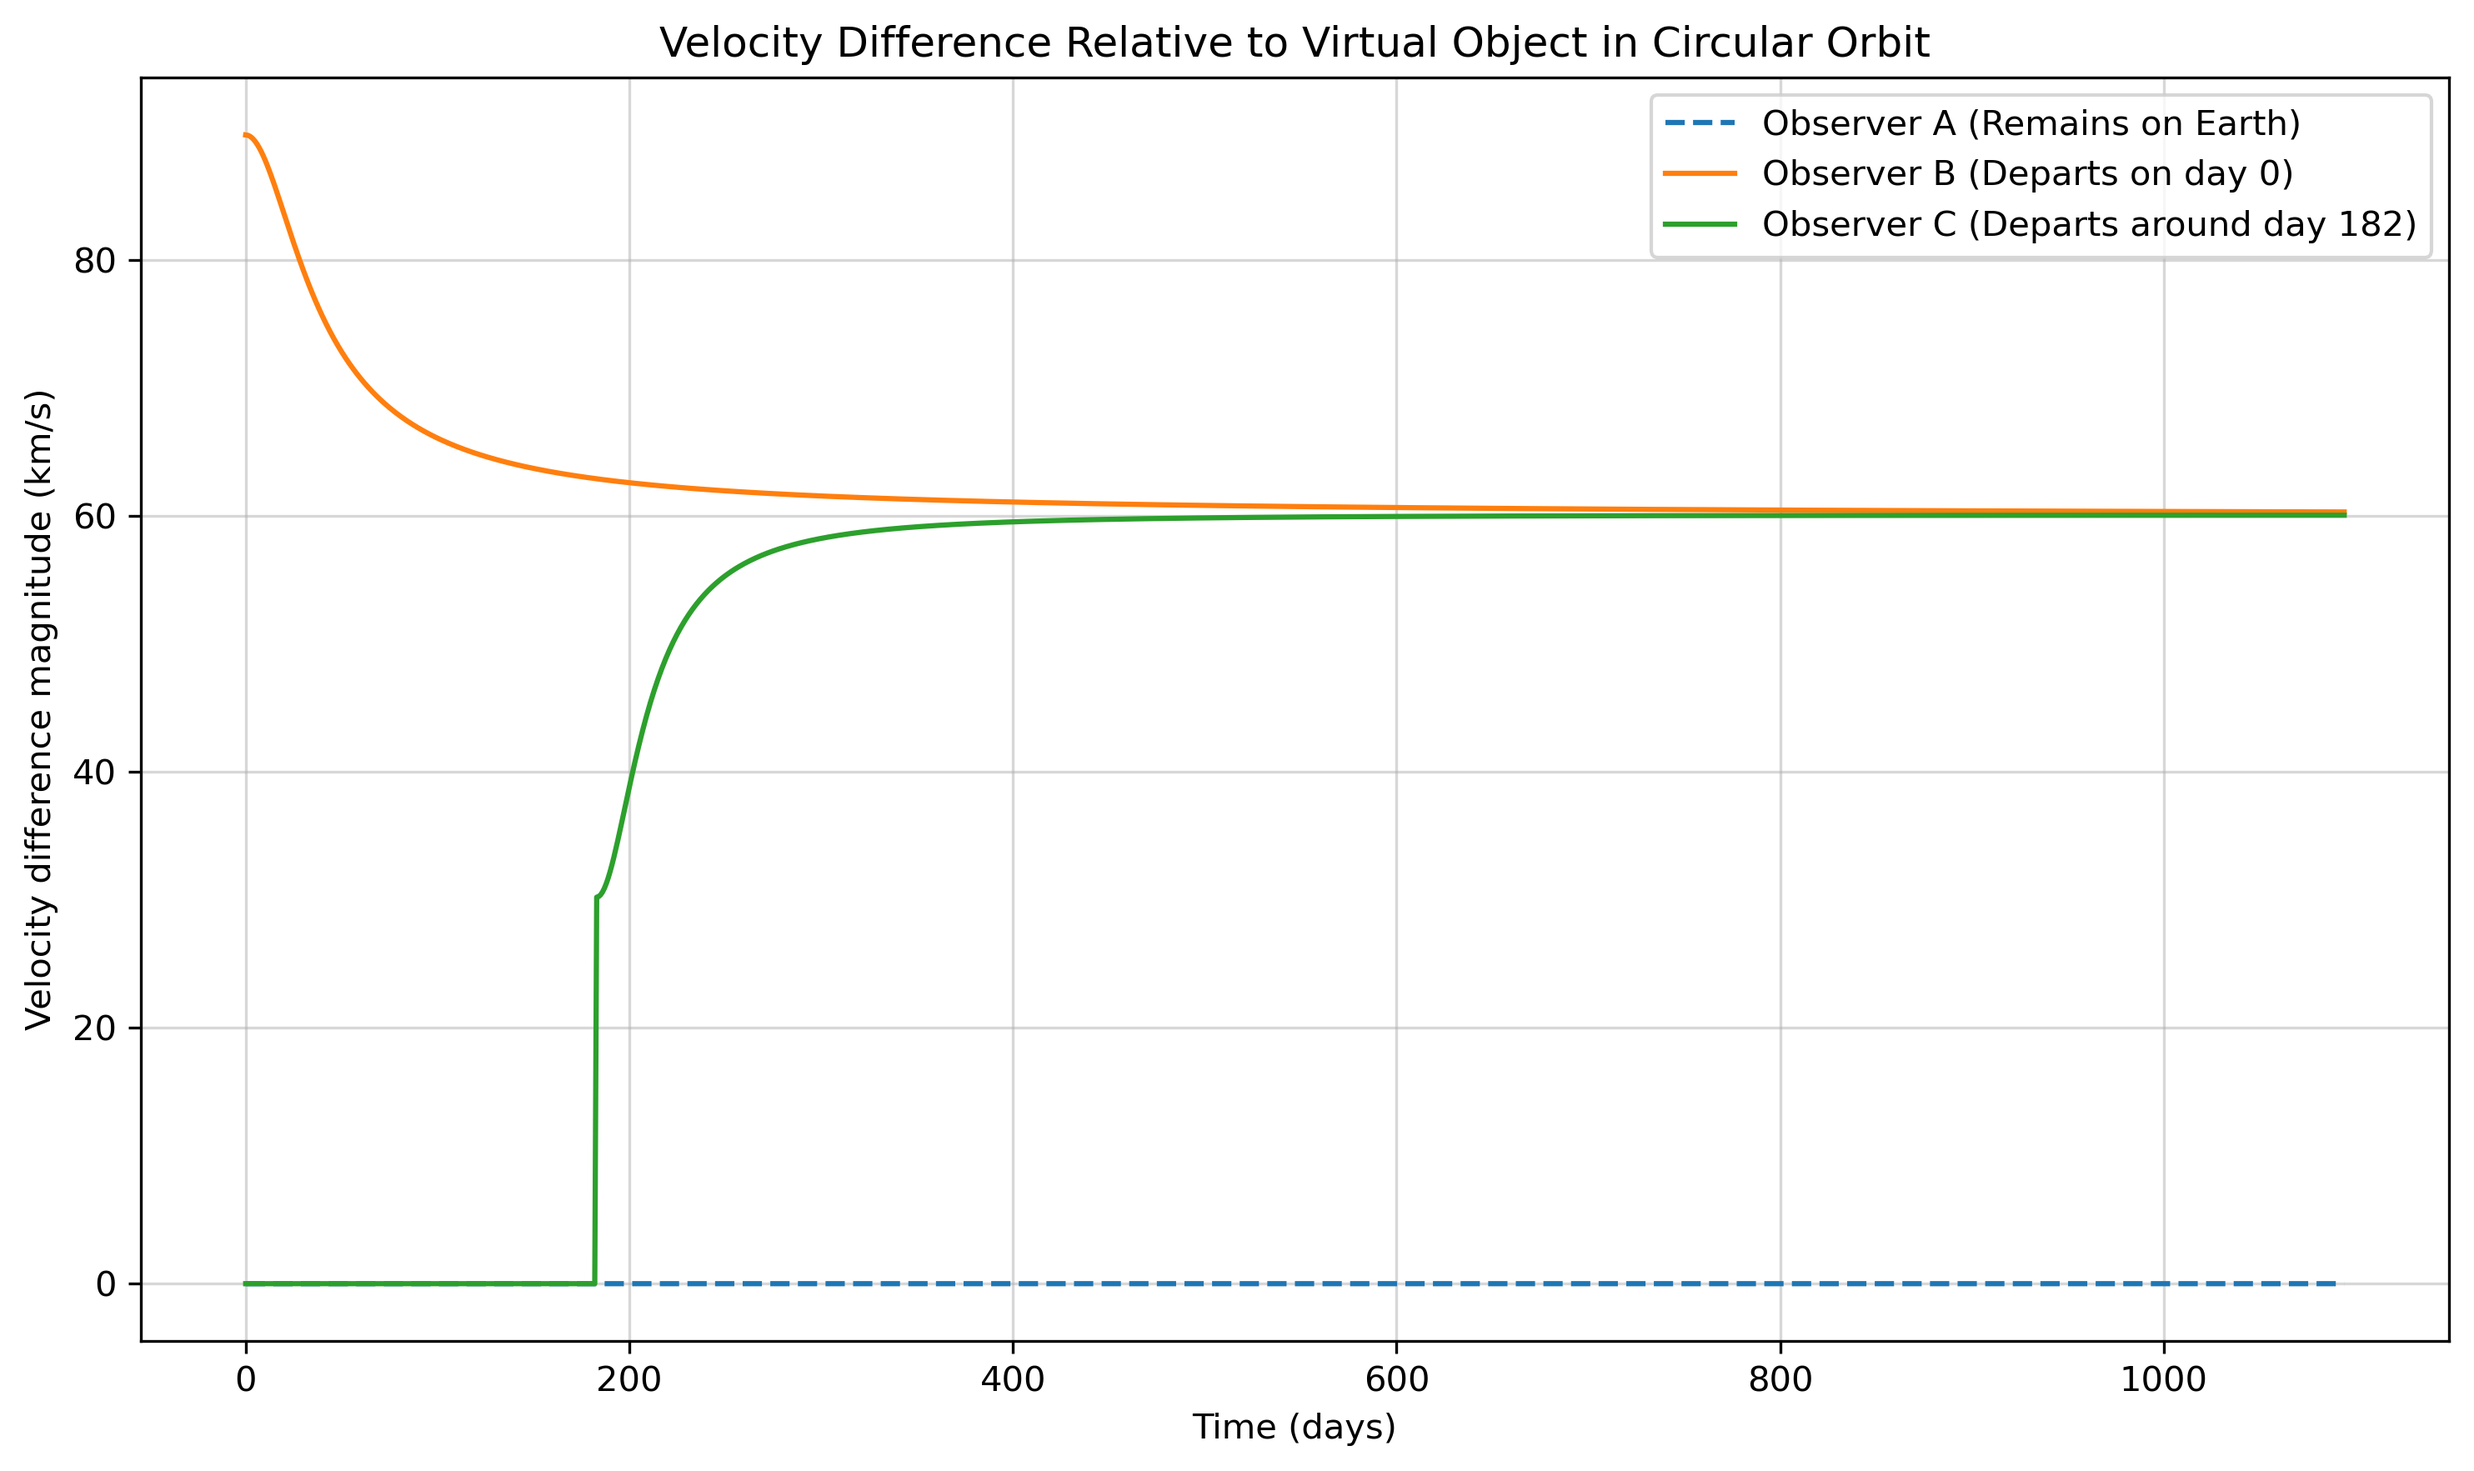
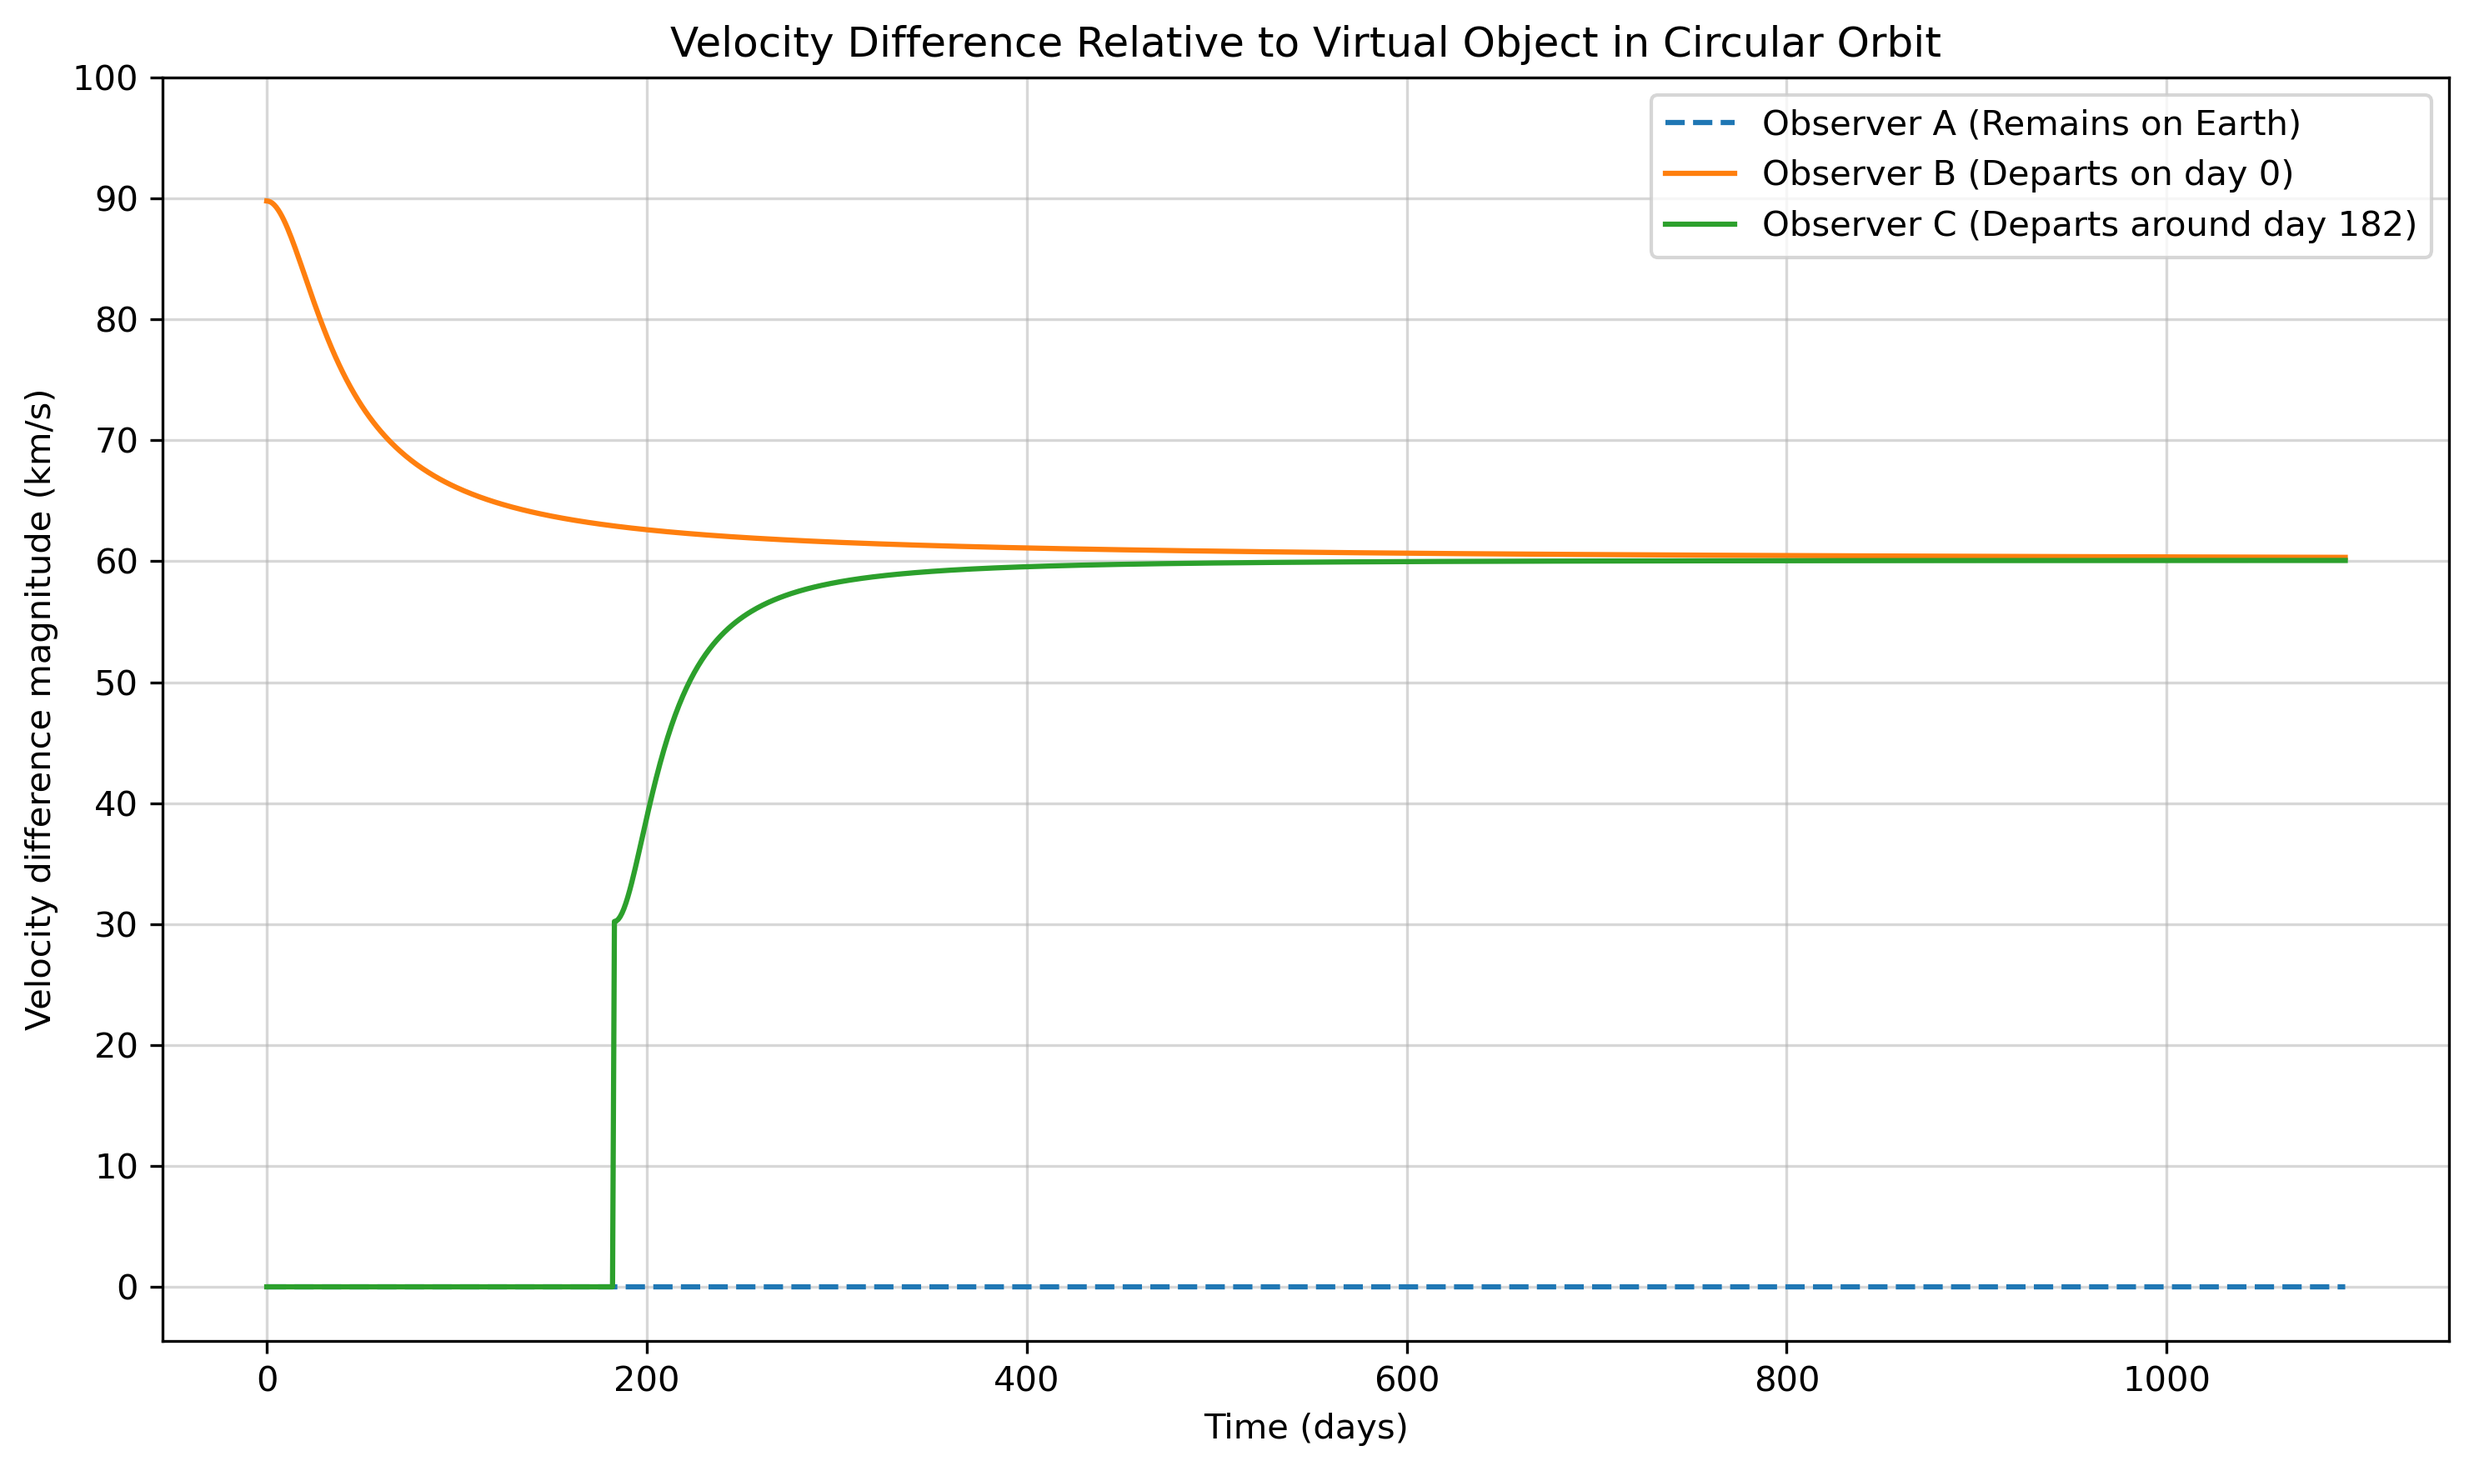
Added gridlines and updated README

diff --git a/main.py b/main.py
@@ -83,6 +83,7 @@ plt.figure(figsize=(10, 6))
 plt.plot(t / DAY_S, mag_diff_A, label='Observer A (Remains on Earth)', linestyle='--')
 plt.plot(t / DAY_S, mag_diff_B, label='Observer B (Departs on day 0)')
 plt.plot(t / DAY_S, mag_diff_C, label='Observer C (Departs around day 182)')
+plt.yticks(np.arange(0, 101, 10))
 
 plt.xlabel('Time (days)')
 plt.ylabel('Velocity difference magnitude (km/s)')

diff --git a/README.MD b/README.MD
@@ -1,13 +1,18 @@
 # Triplet experiment Simulation
 
-This project simulates the velocities of three observers (A, B, and C) traveling through the solar system. It compares their speeds and trajectories to theoretical "virtual objects" in perfect counter-clockwise circular orbits around the Sun at their respective distances. The time dilation experienced by the 3 observers is a function of this velocities.
+This project simulates the kinematics and resulting relativistic effects of three observers (A, B, and C) traveling through the solar system. By comparing their speeds and trajectories to theoretical "virtual objects" in perfect, counter-clockwise circular orbits, this simulation models the kinematic time dilation each observer experiences.
 
-* **Observer A (Earth)** no time dilation.
-* **Observer B** time dilation corresponding with 90 km/s at take-off and gradually evolves to a time dilation corresponding with 60 km/s.
-* **Observer C** time dilation corresponding with 30 km/s at take-off and gradually evolves to a time dilation corresponding with 60 km/s.
-* After 1000 days, Observer B and C experience the same time dilation which corresponds with the fact that they keep the same distance with each other
+## The Local Inertial Frame (LIF)
+In this model, the "virtual objects" act as proxies for the local inertial frame in free fall at any given distance from the Sun. This concept is directly analogous to how the Earth-Centered Inertial (ECI) frame is used in real-world physics; for instance, the kinematic time dilation of GPS atomic clocks is calculated based on their velocity relative to the ECI.
 
-## 🪐 The Physics & Simulation Parameters
+## Kinematic Time Dilation Profiles
+Because time dilation is dependent on the observer's velocity relative to their local inertial frame, the three observers experience significantly different relativistic effects throughout their journeys:
+* **Observer A (Earth Baseline):** Remains in a perfect circular orbit, matching the velocity of the local virtual object. Consequently, Observer A experiences no relative kinematic time dilation and serves as our baseline clock.
+* **Observer B:** Departs at $t=0$ with a trajectory that creates a high initial velocity relative to the local frame (equivalent to 90 km/s). This results in a high initial rate of time dilation. As Observer B travels further from the Sun, this time dilation gradually decreases, asymptotically settling at a rate corresponding to their constant 60 km/s travel speed..
+* **Observer C:** Departs half a year later from the opposite side of the Sun. Due to Earth's orbital direction at that specific time, Observer C's initial velocity relative to the local frame is much lower (equivalent to 30 km/s), resulting in significantly less initial time dilation. Like B, C's time dilation also gradually evolves toward the 60 km/s baseline as they move out of the inner solar system.
+* **The Convergence** After approximately 1,000 days, observers B and C reach identical velocity vectors relative to the local rest frame, maintaining a fixed distance from one another and experiencing the exact same rate of time dilation.
+
+## The Physics & Simulation Parameters
 
 The simulation is set up with the following parameters:
 * **The Sun** is stationary at the origin `(x=0, y=0)`.
@@ -26,7 +31,7 @@ $$\vec{v}_{virtual} = v_{circ} \cdot \left(-\frac{y}{r}, \frac{x}{r}\right)$$
 
 At every daily time step, the script calculates the vector difference in velocity between each observer and this theoretical virtual object.
 
-## ctivate the environment
+## Activate the environment
 
 * conda env create -f environment.yml
 * conda activate triplet-experiment
@@ -37,3 +42,4 @@ python main.py
 
 This will create the file: 
 * velocity_difference_plot.png
+![Velocity Difference Plot](velocity_difference_plot.png)
